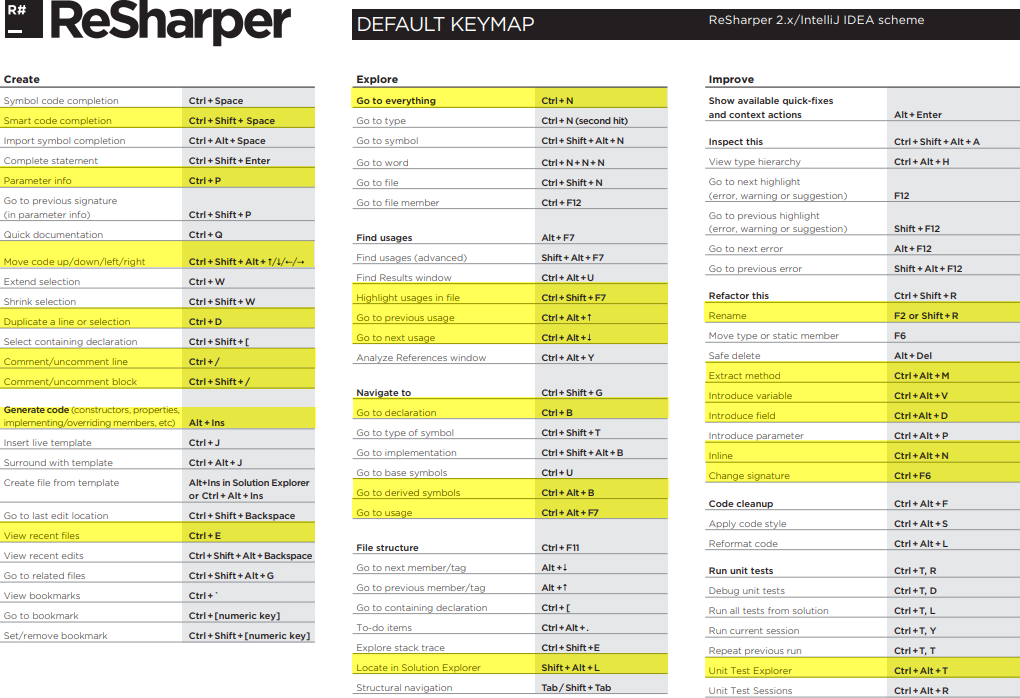
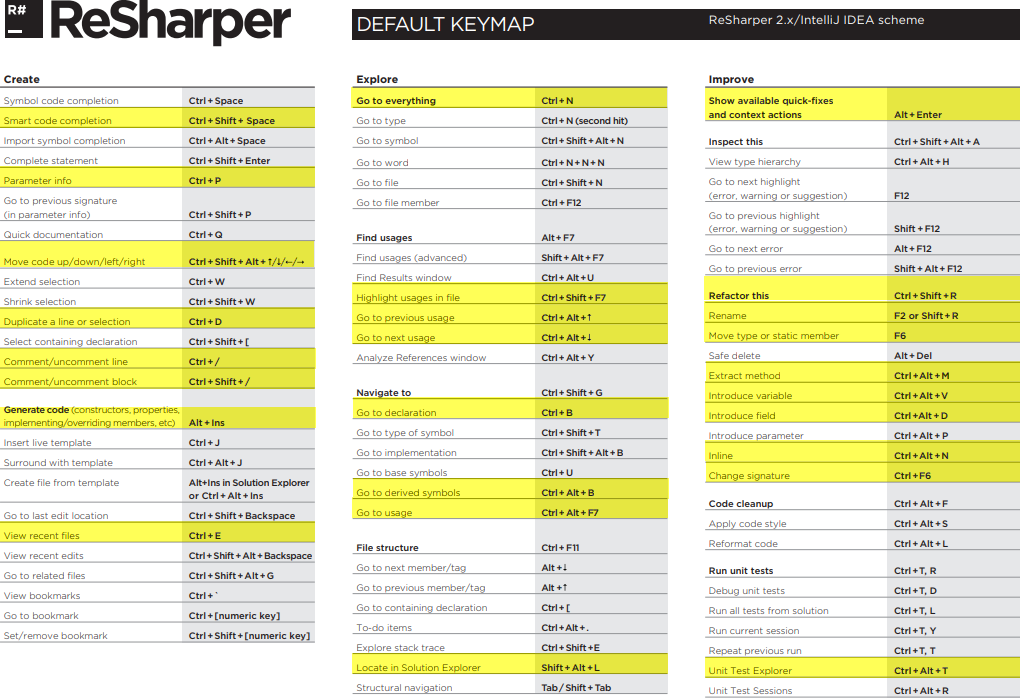
More resharper

Changed region(s): [[0.6686, 0.3911, 1.0, 0.5115], [0.6686, 0.1203, 1.0, 0.1805]]

diff --git a/_posts/2019-05-18-resharper-shortcuts.md b/_posts/2019-05-18-resharper-shortcuts.md
@@ -9,14 +9,22 @@ tags:
 
 ## Introduction
 
-These are my most commonly used ReSharper keyboard shortcuts
+These are my most commonly used [ReSharper keyboard shortcuts](https://www.jetbrains.com/resharper/docs/ReSharper_DefaultKeymap_IDEAscheme.pdf)
 
-[ReShaper Keyboard Shortcut Schemes](https://www.jetbrains.com/help/resharper/Reference__Keyboard_Shortcuts.html) ([PDF](https://www.jetbrains.com/resharper/docs/ReSharper_DefaultKeymap_IDEAscheme.pdf))
+I use the _IntelliJ IDEA/ReSharper 2.x_ scheme. This scheme shares the majority of shortcuts with other JetBrains development enviornments. This means I can use the same shortcuts in WebStorm 👌
 
-I use the _IntelliJ IDEA/ReSharper 2.x_ scheme.
+## My Top 3 Shortcuts
 
-## Most Used Shortcuts
+* Refactor This  `Ctrl`{: .key}+`Shift`{:.key}+`R`{:.key}
+  * It's awesome because it will show you the shortcuts available at your cursor position 🔥)
+* Quick fixes / context actions `Alt`{: .key}+`Enter`{:.key}
+* Go to everything `Ctrl`{: .key}+`N`{:.key}
+  * You can use camel humps for searching. E.g. `MCN` for `MyClassName`
+
+## My Most Used Shortcuts
 
 [![img]({{ '/assets/images/resharper-shortcuts.png' | relative_url }}){: .center-image }]({{ '/assets/images/resharper-shortcuts.png' | relative_url }})
 
-TODO: include camel case
+## Camel Case 
+
+[![img]({{ '/assets/images/resharper-camel-humps.png' | relative_url }}){: .center-image }]({{ '/assets/images/resharper-camel-humps.png' | relative_url }})
